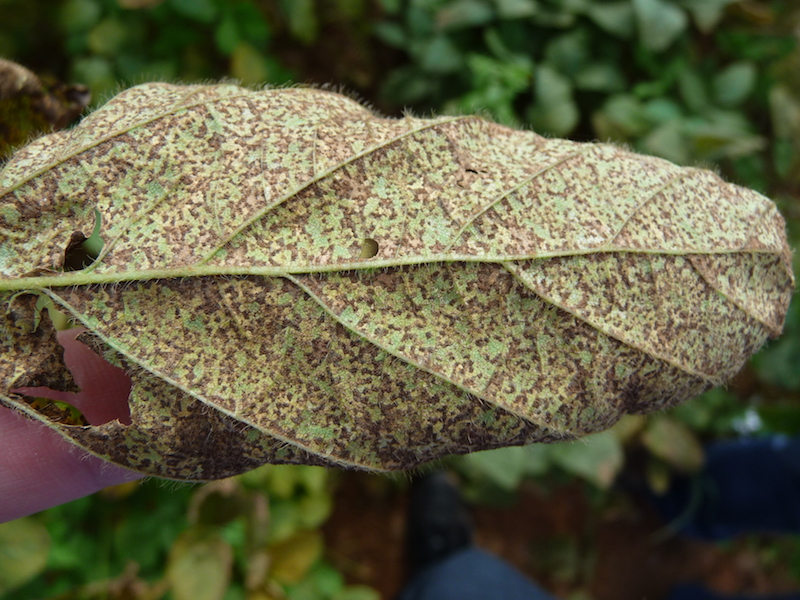
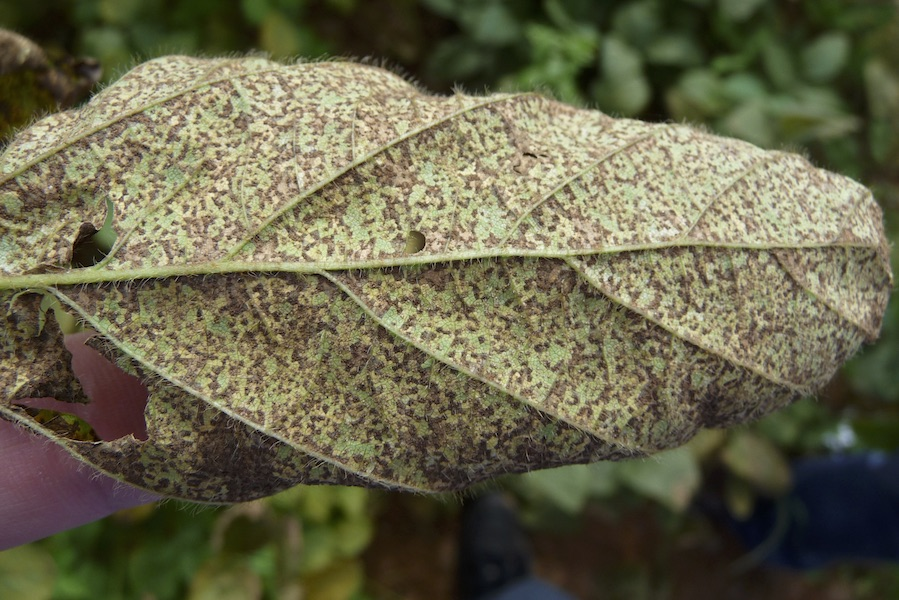
Cleaning up the index page

diff --git a/index.html b/index.html
@@ -160,7 +160,7 @@ layout: landing-page
 
                 <section>
                     <div class="hover-blue">
-                        <a href="http://2blades.org/" class="image featured"><img src="images/pic09.png"
+                        <a href="http://2blades.org/" class="image featured"><img src="images/pic09.jpg"
                                                                                   alt=""/></a>
                         <div class="overlay">
                             <div class="text">Click to read more</div>
